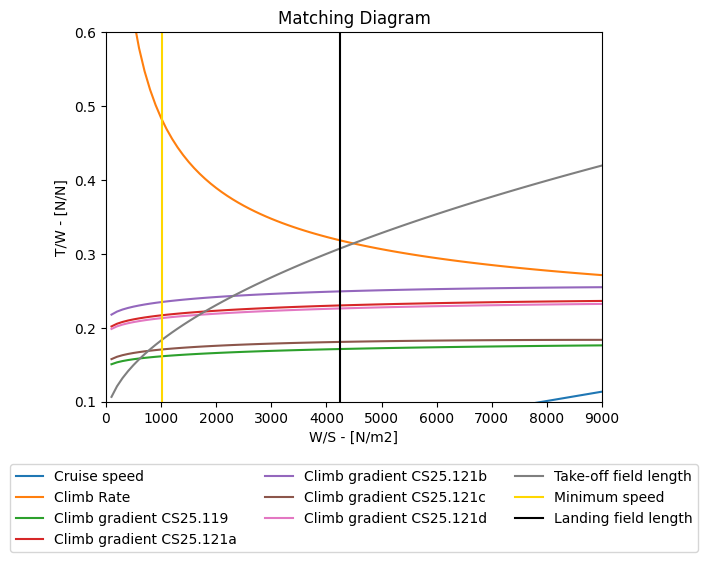
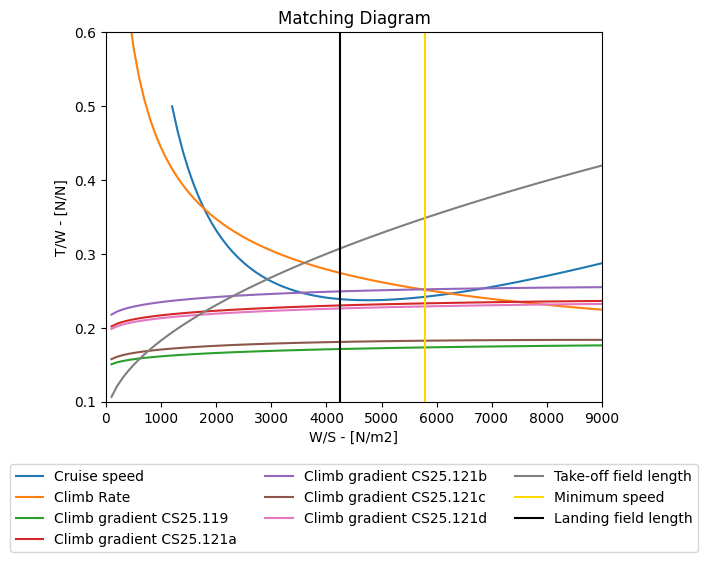
fixed cruise speed

diff --git a/main.py b/main.py
@@ -34,9 +34,9 @@ L_over_D_max, C_L_for_max_L_over_D, C_D_for_max_L_over_D = L_over_D_max_function
 y_spanwise, xlemac, lengthMAC = pd.calculate_MAC_position(b, c_r, c_t, sweep)
 
 #_________Wing Loading Calculations______________________________________________________________________________________________________
-loads_minimum_speed = ms.Minimum_speed_function(fv.wing_loading)
+loads_minimum_speed = ms.Minimum_speed(fv.rho_ISO, 0.7, 66, fv.C_L_max_landing)
 loads_landing_field_length = lfl.landing_field_length(fv.mass_fraction_landing, 950, 1.225, fv.C_L_max_landing)
-loads_cruise_speed = cs.cruise_speed(fv.beta,fv.thrust_lapse,fv.wing_loading_cs,fv.C_d0, 1.225, fv.v_cr, fv.AR, fv.e_f)
+loads_cruise_speed = cs.cruise_speed(0.95,fv.thrust_lapse,fv.wing_loading_cs,fv.C_d0, 0.2872, fv.v_cr, fv.AR, e_initial)
 loads_climb_rate = cr.climb_rate(fv.wing_loading)
 loads_climb_grad_119 = cg.climb_grad(fv.wing_loading, fv.mass_fraction_119, fv.cg_119, fv.C_d0_119, fv.e_119, fv.AR, 1.225, fv.C_l_at_max_climb_gradient_119, fv.B)
 loads_climb_grad_121a = 2*cg.climb_grad(fv.wing_loading, fv.mass_fraction_121a, fv.cg_121a,fv.C_d0_121a, fv.e_121a, fv.AR, 1.225, fv.C_l_at_max_climb_gradient_121a, fv.B)
@@ -80,7 +80,7 @@ dx.plot(fv.wing_loading, loads_climb_grad_121b, label="Climb gradient CS25.121b"
 dx.plot(fv.wing_loading, loads_climb_grad_121c, label="Climb gradient CS25.121c")
 dx.plot(fv.wing_loading, loads_climb_grad_121d, label="Climb gradient CS25.121d")
 dx.plot(fv.wing_loading, loads_to_field, label="Take-off field length")
-dx.axvline(loads_minimum_speed[0], color = "gold", label = "Minimum speed")
+dx.axvline(loads_minimum_speed, color = "gold", label = "Minimum speed")
 dx.axvline(loads_landing_field_length, color = "black", label = "Landing field length")
 dx.set_xlim([0, 9000])
 dx.set_ylim([0.1, 0.6])

diff --git a/Matching_Diagram/Minimum_speed.py b/Matching_Diagram/Minimum_speed.py
@@ -1,15 +1,3 @@
-rho_at_airport = 1.225225
-bypass_ratio = 4
-V_approach = 66
-C_l_max_landing = 2.3
-
-def Minimum_speed_calculation_function(rho_at_airport, bypass_ratio, V_approach, C_l_max_landing):
+def Minimum_speed(rho_at_airport, bypass_ratio, V_approach, C_l_max_landing):
     Wing_loading = 1/bypass_ratio * (rho_at_airport/2) * (V_approach/1.23)**2 * C_l_max_landing
     return Wing_loading
-
-def Minimum_speed_function(Loading_array_input):
-    Loading_array_output = []
-    for value in Loading_array_input:
-        Loading_array_output.append(Minimum_speed_calculation_function(rho_at_airport, bypass_ratio, V_approach, C_l_max_landing))
-    
-    return Loading_array_output

diff --git a/fixed_values.py b/fixed_values.py
@@ -6,7 +6,7 @@ R_des = 6745000
 f_cont = 0.05
 e_f = 43000000
 B = 4
-v_cr = 200.62877
+v_cr = 200.63
 h_cr = 12500
 t_E = 45*60
 R_div = 277800
@@ -28,7 +28,7 @@ m_pl_maxaximum = 1010
 
 #______CRuise speed calculations_____
 thrust_lapse = 0.24
-beta = 0.94
+beta = 0.95
 
 #________Matching diagram: Landing and take-off distance_____
 mass_fraction_landing = 0.7
@@ -48,7 +48,7 @@ wing_loading_cs = np.arange(1200, 9100, 100)
 
 
 #________Matching diagram: climb rate______
-C_d0 = 0.059
+C_d0 = 0.0234
 p_ISO = 101325
 T_ISO = 273.15
 rho_ISO = 1.225225

diff --git a/Matching_Diagram/Cruise_speed.py b/Matching_Diagram/Cruise_speed.py
@@ -7,7 +7,7 @@ import math
 def cruise_speed(beta, thrust_lapse, Wing_loading, C_D_0, density, v_cr, AR, e):
     T_over_W = numpy.array([])
     for i in Wing_loading:
-        x = (beta/thrust_lapse)*((C_D_0*0.5*density*(v_cr)**3)/(beta*i)+(beta*i)/(math.pi*AR*e*0.5*density*v_cr))**(-1)
+        x = (beta/thrust_lapse)*((C_D_0*0.5*density*v_cr**2)/(beta*i)+(beta*i)/(math.pi*AR*e*0.5*density*v_cr**2))
         T_over_W = numpy.append(T_over_W, x)
 
     return T_over_W
